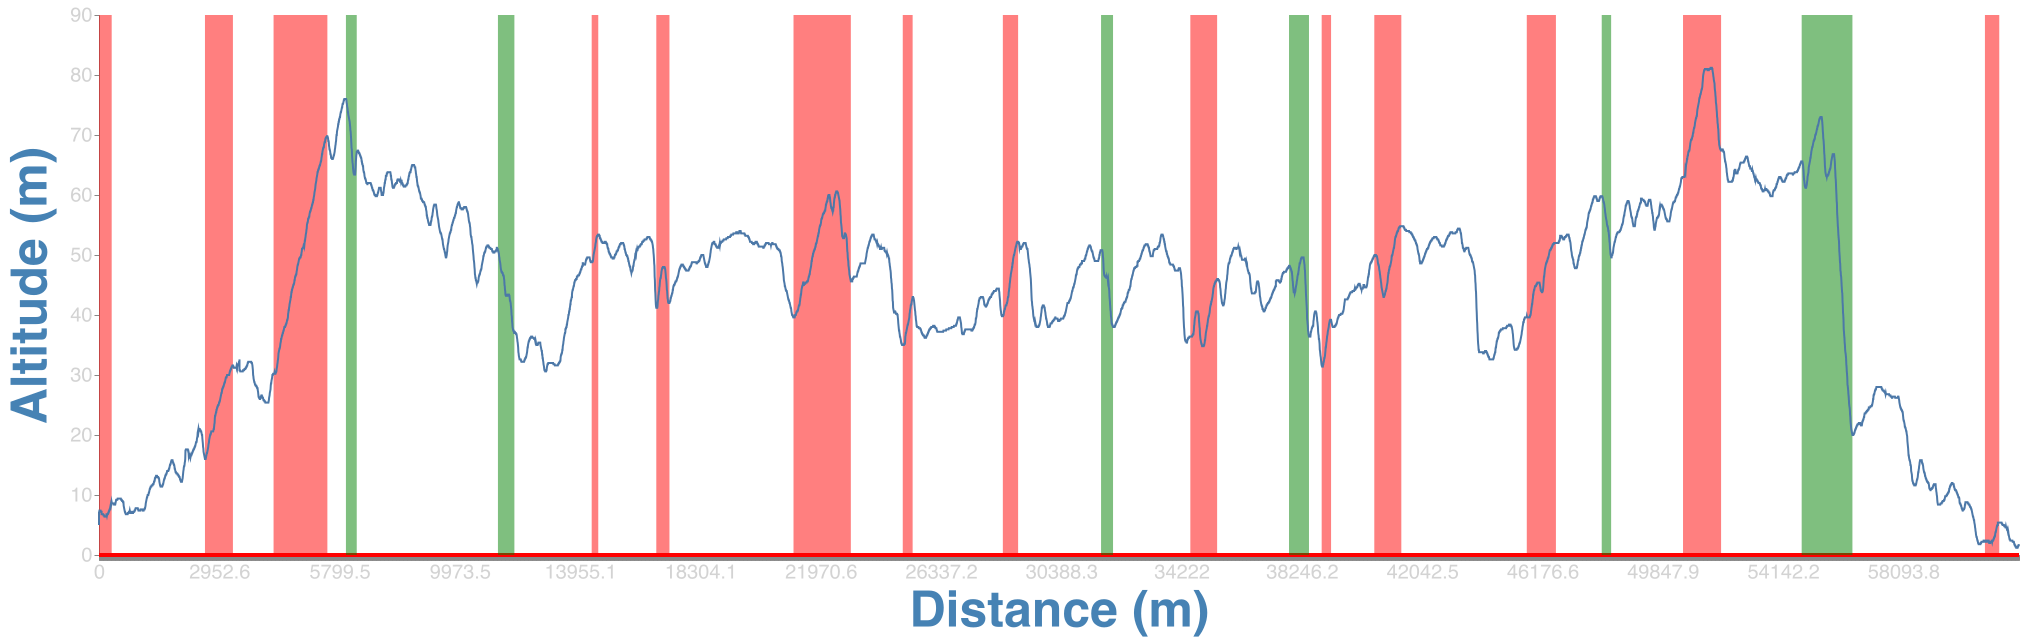
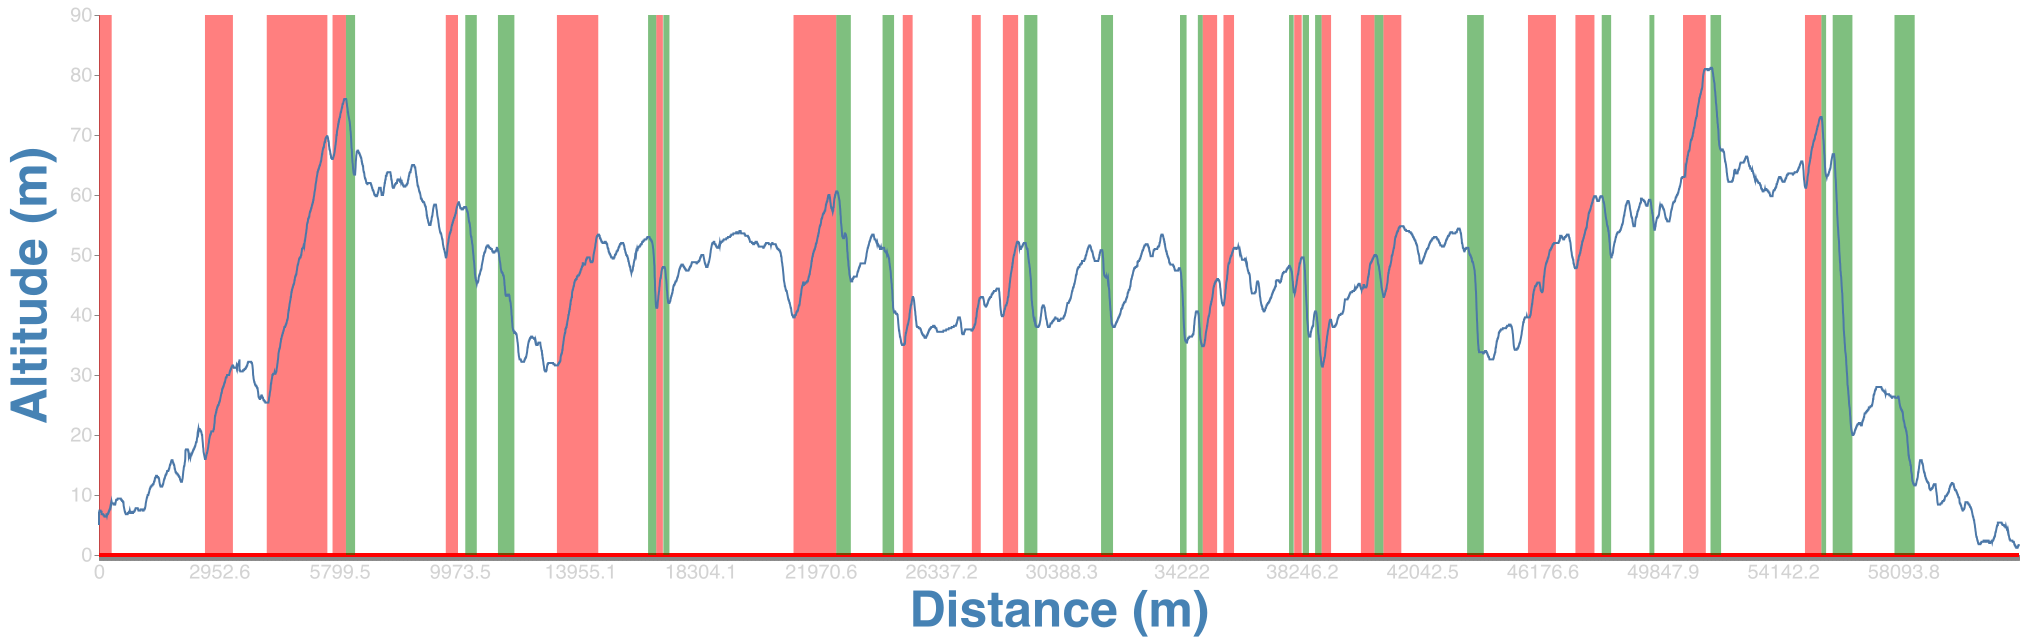
fixed the combining passd in cleanHill frags

diff --git a/src/hillFinder.js b/src/hillFinder.js
@@ -149,22 +149,34 @@ function cleanHillFragments(altitudeStream, distanceStream, hillFragments) {
 	let curCulledHillIDX = 1;
 	let currentHill = culledHills[0];
 
-	while (curCulledHillIDX < culledHills.length - 1) {
+	while (curCulledHillIDX <= culledHills.length - 1) {
 		let endOfCurrentHill = currentHill.idxEnd;
 		let startOfNextHill = culledHills[curCulledHillIDX].idxStart;
 
-		// fix combining hills of different gradients
 		if (
 			distanceStream[startOfNextHill] -
 				distanceStream[endOfCurrentHill] <=
-			hillGap
+				hillGap &&
+			getGradient(
+				altitudeStream,
+				distanceStream,
+				currentHill.idxStart,
+				currentHill.idxEnd
+			) *
+				getGradient(
+					altitudeStream,
+					distanceStream,
+					culledHills[curCulledHillIDX].idxStart,
+					culledHills[curCulledHillIDX].idxEnd
+				) >
+				0
 		) {
 			currentHill.idxEnd = culledHills[curCulledHillIDX].idxEnd;
 			curCulledHillIDX++;
 		} else {
 			combinedHills.push(currentHill);
-			curCulledHillIDX++;
 			currentHill = culledHills[curCulledHillIDX];
+			curCulledHillIDX++;
 		}
 	}
 
